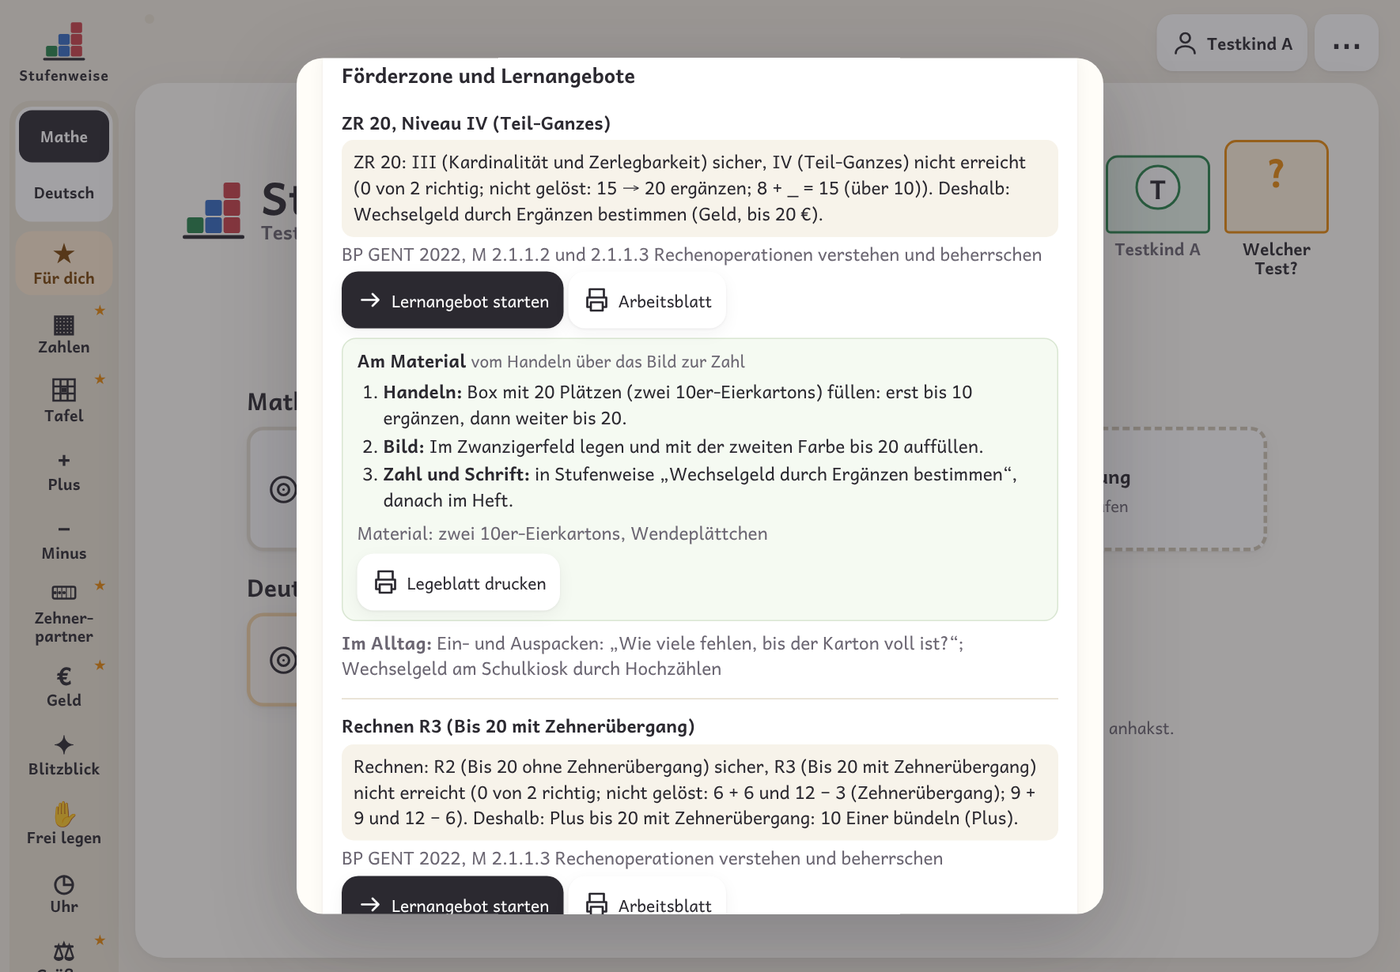
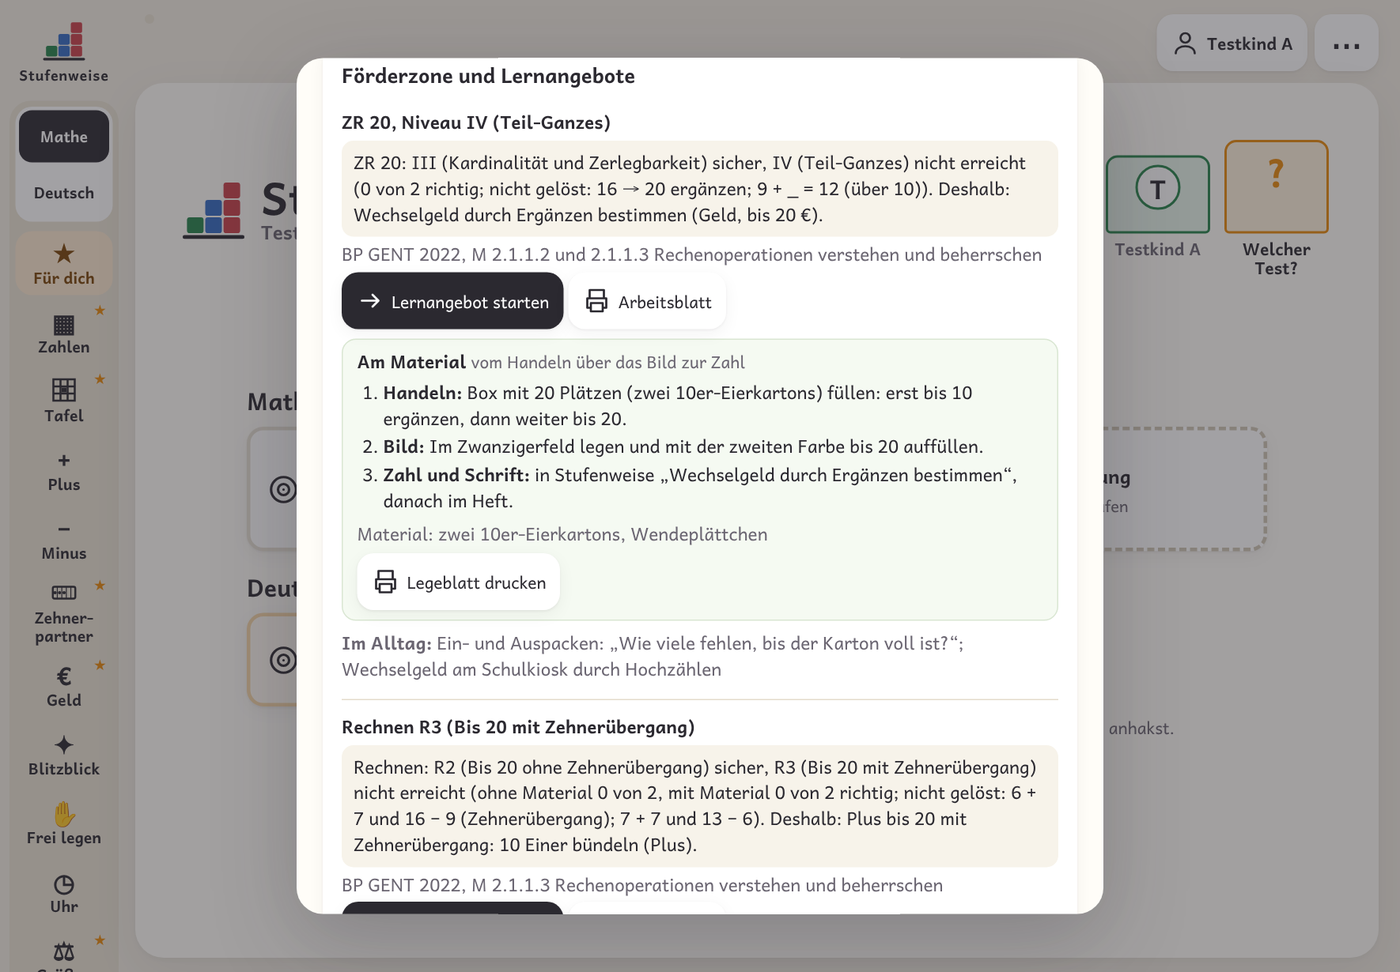
0.34.0: Optimierung Deutsch (Bilder beim Schreiben, Anhören, Hören, Materialkiste/Unterricht Deutsch), Mathe mit Material und im Kopf
Claude-Session: https://claude.ai/code/session_01EfzymyQCgsgUWMXT4Bz7sH

diff --git a/index.html b/index.html
@@ -10553,7 +10553,7 @@ document.addEventListener('change', e => { const c = e.target.closest('[data-sub
 document.addEventListener('change', e => { const s = e.target.closest('[data-guide-pid]'); if(!s) return; const p = data.profiles.find(x => x.id === s.dataset.guidePid); if(p){ p.guide = s.value || undefined; saveData(); render(); } });
 
 /* ---------- Rückmeldung (Testphase): Art, Schwere, Text + automatischer Kontext → E-Mail ---------- */
-const APP_VERSION = '0.33.0 · 24.11.2026';
+const APP_VERSION = '0.34.0 · 24.11.2026';
 /* Danke-Seite: Namen nur mit Einverständnis eintragen, z. B. 'Vorname Nachname (Schule)' */
 const THANKS = [];
 const FB_REPO = 'https://github.com/Steffinuss/stufenweise';

diff --git a/BACKLOG.md b/BACKLOG.md
@@ -4,7 +4,7 @@ Geplante Entwicklungsaufgaben für Stufenweise. Begonnenes steht in `IN_PROGRESS
 
 Regeln (Stand 17.11.2026): Der Funktionsumfang von `main` ist eingefroren, weil die App an Schulen genutzt wird. Neues entsteht nur im Zweig `entwicklung`, wird in der Testversion gezeigt und erst nach Stefans OK freigegeben (`docs/entwicklung.md`). Didaktische Entscheidungen trifft Stefan.
 
-Stand: 24.11.2026 (0.33.0)
+Stand: 24.11.2026 (0.34.0)
 
 ## Vorgeschlagene Reihenfolge
 
@@ -18,7 +18,7 @@ Stand: 24.11.2026 (0.33.0)
 | 5 | ~~**E** QR-Umzug schneller (+ Fehler F2)~~ | mittel | freigegeben in 0.31.0 (23.11.2026), zusammen mit F3 (Druck wie Vorschau), siehe `CHANGELOG.md` |
 | 6 | ~~**G** Hundertertafel-Blätter: Bezug zur Tafel sichtbar (+ Heft zur Förderzone)~~ | klein | freigegeben in 0.32.0 (23.11.2026), siehe `CHANGELOG.md` |
 | 7 | ~~**H** Konzentrationsmodus für Kinder (+ Usability-Review)~~ | klein bis mittel | freigegeben in 0.33.0 (24.11.2026), siehe `CHANGELOG.md` |
-| 8 | **I** Optimierung Deutsch (Bilder beim Schreiben, Anhören, Ausbau) + Hundertertafel verdeckt | groß | gebaut in `entwicklung` (24.11.2026), Testversion, wartet auf Freigabe |
+| 8 | ~~**I** Optimierung Deutsch (Bilder beim Schreiben, Anhören, Ausbau) + Hundertertafel verdeckt, Mathe mit Material~~ | groß | freigegeben in 0.34.0 (24.11.2026), siehe `CHANGELOG.md` |
 
 Alternative: B zuerst als schneller Gewinn, während Stefan den Basis-Test ausprobiert.
 
@@ -26,7 +26,7 @@ Alternative: B zuerst als schneller Gewinn, während Stefan den Basis-Test auspr
 
 ## I: Optimierung Fach Deutsch
 
-**Status:** gebaut in `entwicklung` (24.11.2026), Testversion; wartet auf Stefans Freigabe. Dokument „Stufenweise – Optimierung Deutsch“ (claude.ai/artifact/UWNJUi6e6cFP7h7W7ugtdx).
+**Status:** erledigt, freigegeben in 0.34.0 (24.11.2026). Dokument „Stufenweise – Optimierung Deutsch“ (claude.ai/artifact/UWNJUi6e6cFP7h7W7ugtdx).
 **Anlass (Stefan, 24.11.):** In Deutsch ist deutlich weniger als in Mathe. Beim Schreiben müssen Kinder Wörter schreiben, ohne sie zu kennen; manchmal erkennen sie die Bilder nicht. „Vielleicht wäre an dieser Stelle doch eine Sprachausgabe als Hilfe gut.“
 
 **Befund (gezählt in 0.33.0):**

diff --git a/CHANGELOG.md b/CHANGELOG.md
@@ -5,6 +5,10 @@ Versionen: Hauptversion.Nebenversion.Korrektur (Korrektur = Fehlerbehebung, Nebe
 
 ## Unveröffentlicht (Zweig `entwicklung`, Testversion)
 
+- noch nichts
+
+## 0.34.0 – 24.11.2026
+
 Neu (Backlog I „Optimierung Deutsch“, Stefans Antworten im Dokument vom 24.11.2026):
 - **Bilder beim Schreiben:** nur eindeutige Bilder (Üben, Test, Anfangsbuchstaben, Arbeitsblätter W2–W5); Tulpe, Rose und Kanne weggelassen. **Kenne ich nicht** beim Üben: Wort mit Bild zeigen, abdecken, aus dem Gedächtnis schreiben (zählt „mit Hilfe“); im Schreib-Test ein anderes Bild (höchstens zweimal je Stufe). Lernstand: „Bilder, die nicht erkannt wurden (Wortschatz)“. **Bilder vorher ansehen** (Knopf für die Lehrkraft): die Bilder der nächsten Runde mit Wort. **Bilder abwählen** für die Klasse (Einstellungen → Deutsch).
 - **Anhören (Sprachausgabe, zum Ausprobieren):** Lautsprecher-Knopf liest nur das Wort vor (Schreiben, Schreib-Test, Hören, Bildwörterbuch). Nur Stimmen auf dem Gerät, nichts übers Internet. Einstellungen → Deutsch: Standard für alle Kinder, je Kind abweichend, Stimme, Tempo, Probe.

diff --git a/IN_PROGRESS.md b/IN_PROGRESS.md
@@ -5,8 +5,4 @@ Arbeitsweise mit zwei Zweigen: `docs/entwicklung.md`.
 
 Stand: 24.11.2026
 
-## Backlog I: Optimierung Deutsch (+ Hundertertafel verdeckt)
-
-**Stand:** gebaut in `entwicklung` (24.11.2026), in der Testversion zum Ausprobieren. Wartet auf Stefans Rückmeldung und Freigabe.
-**Umfang:** H1–H4, Anhören (Gerätestimme, Variante A), D1–D6, Hundertertafel „Finden“ verdeckt – Einzelheiten in `CHANGELOG.md` unter „Unveröffentlicht“ und in `BACKLOG.md` I.
-**Zu prüfen (Stefan):** Klang der Stimme auf dem iPad (Einstellungen → Deutsch → Probe); ob „Kenne ich nicht“ im Konzentrationsmodus gut auffindbar ist; Auswahl der Reimpaare und Anlautbilder.
+Gerade nichts in Arbeit. Optimierung Deutsch, Mathe mit Material und im Kopf (Backlog I) sind mit 0.34.0 freigegeben (siehe `CHANGELOG.md`).
